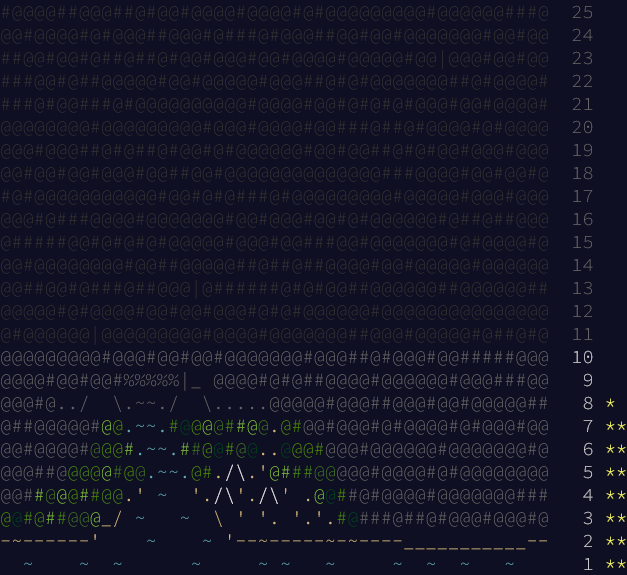
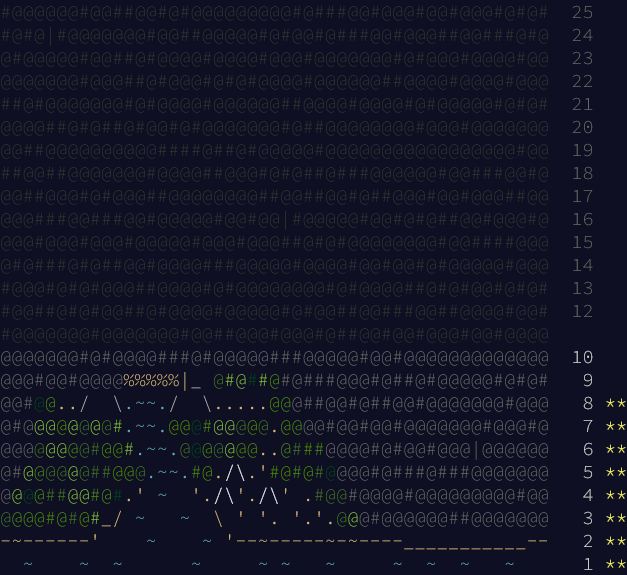
rust: 2022.08, part 2: solve

diff --git a/2022/rust/src/aoc08.rs b/2022/rust/src/aoc08.rs
@@ -1,5 +1,7 @@
 use super::Day;
 
+use std::cmp::max;
+
 pub struct Day08;
 
 impl<'a, I: Clone + Iterator<Item = &'a str>> Day<'a, I, usize> for Day08 {
@@ -36,8 +38,51 @@ impl<'a, I: Clone + Iterator<Item = &'a str>> Day<'a, I, usize> for Day08 {
         )
     }
 
-    fn part2(_input: I) -> Option<usize> {
-        todo!()
+    fn part2(input: I) -> Option<usize> {
+        let forest = parse_forest(input)?;
+
+        let mut highest_scenic_score = 0;
+        for (row, columns) in forest.iter().enumerate() {
+            for (column, &tree) in columns.iter().enumerate() {
+                let mut up = 0;
+                for neighbor in (0..row)
+                    .rev()
+                    .map(|row| &forest[row])
+                    .map(|row| row[column])
+                {
+                    up += 1;
+                    if neighbor >= tree {
+                        break;
+                    }
+                }
+                let mut left = 0;
+                for neighbor in (0..column).rev().map(|column| columns[column]) {
+                    left += 1;
+                    if neighbor >= tree {
+                        break;
+                    }
+                }
+                let mut down = 0;
+                for neighbor in (row + 1..forest.len())
+                    .map(|row| &forest[row])
+                    .map(|row| row[column])
+                {
+                    down += 1;
+                    if neighbor >= tree {
+                        break;
+                    }
+                }
+                let mut right = 0;
+                for &neighbor in columns.iter().skip(column + 1) {
+                    right += 1;
+                    if neighbor >= tree {
+                        break;
+                    }
+                }
+                highest_scenic_score = max(highest_scenic_score, up * left * down * right);
+            }
+        }
+        Some(highest_scenic_score)
     }
 }
 

diff --git a/2022/README.md b/2022/README.md
@@ -17,7 +17,7 @@
 @#@##@#@@@@@@@@@#@####@@####@#@@@#@##@@#@##@@##@@  11
 @@@@@@@#@##@@@#@@#@@@##@@@@###@@@#@@@#@#@##@@@@@#  10
 #@@#@#@#@@@@@@@#@@@#@#@#@@@@#@@@@@@@##@@@#@@@##@@   9
-@@@#@../  \.~~./  \.....@@@@@#@@@##@@@#@@#@@@@@##   8 *
+@@#@@../  \.~~./  \.....@@@##@@#@##@@#@@@@@@@#@@@   8 **
 ##@|@#@@@@@.~~.@@@@@#@@@.@@@##@@#@@@@@#@@@@#@#@@@   7 **
 @@@@@@@@@@@@.~~.@@@@@@@..@@@@##@@@@@@#@@@@@@#@@##   6 **
 #@@@@@@@#@@@@.~~.@@./\.'#@##@@@@#@@@@@@@#@@@#@@@@   5 **
@@ -27,4 +27,4 @@
   ~    ~  ~      ~     ~ ~   ~     ~  ~  ~   ~      1 **
 ```
 
-![Calendar after day 8, part 1](calendar.png)
+![Calendar after day 8](calendar.png)
